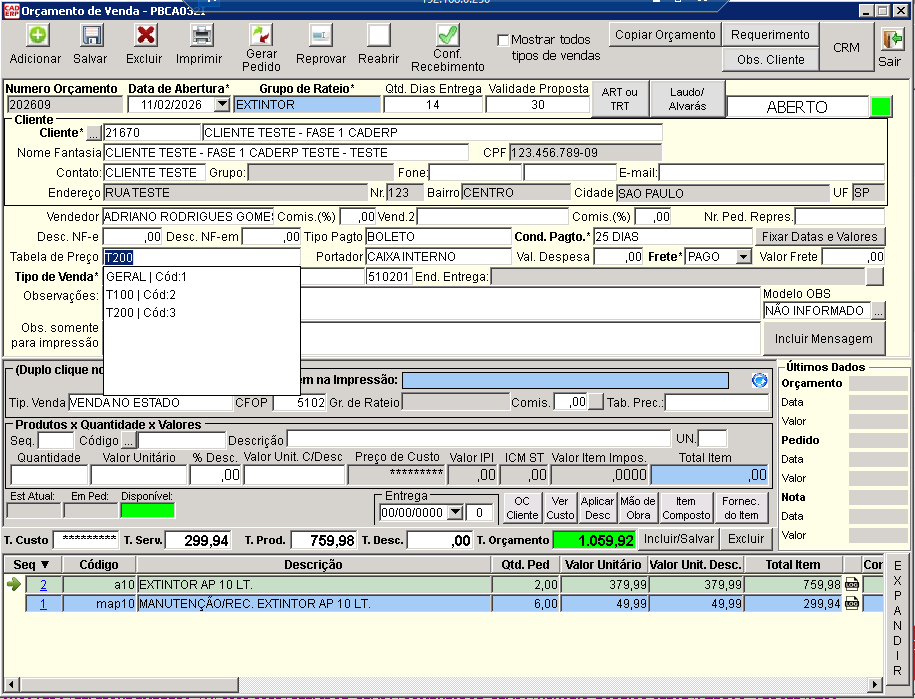
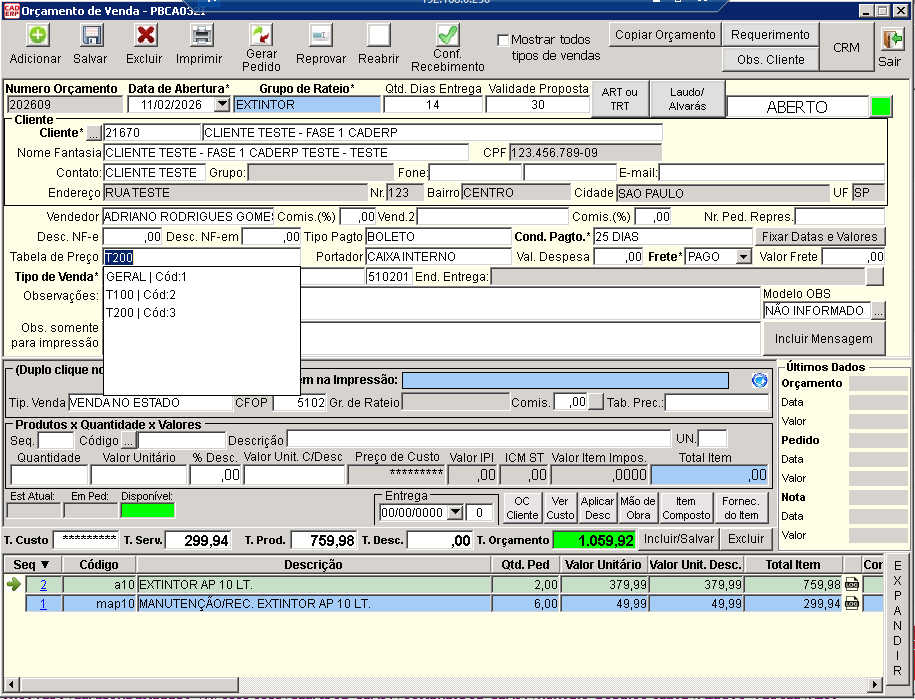
fix: update image references and improve HTML formatting in pbca-indice.html

diff --git a/modulos/documentos-tecnicos/pbca-indice.html b/modulos/documentos-tecnicos/pbca-indice.html
@@ -265,11 +265,14 @@
                             style="max-width: 800px; vertical-align: middle; margin-left: 5px;">
 
 
-                            <li>CAD Backup - A | MENU: UTILITÁRIOS > BACKUP BASE DE DADOS</li>
-                        <img src="../../../assets/img/telas-pbc/CAD Backup - A.PNG" alt="Tela do sistema CAD ERP" style="max-width: 800px; vertical-align: middle; margin-left: 5px;">
+                        <li>CAD Backup - A | MENU: UTILITÁRIOS > BACKUP BASE DE DADOS</li>
+                        <img src="../../../assets/img/telas-pbc/CAD Backup - A.PNG" alt="Tela do sistema CAD ERP"
+                            style="max-width: 800px; vertical-align: middle; margin-left: 5px;">
 
-                        <li>CADERP090 - USUÁRIOS LOGADOS NO SISTEMA | ACESSO VIA LINK "USUÁRIOS CONECTADOS" NA TELA DE LOGIN</li>
-                        <img src="../../../assets/img/telas-pbc/CADERP090.PNG" alt="Tela do sistema CAD ERP" style="max-width: 800px; vertical-align: middle; margin-left: 5px;">
+                        <li>CADERP090 - USUÁRIOS LOGADOS NO SISTEMA | ACESSO VIA LINK "USUÁRIOS CONECTADOS" NA TELA DE
+                            LOGIN</li>
+                        <img src="../../../assets/img/telas-pbc/CADERP090.PNG" alt="Tela do sistema CAD ERP"
+                            style="max-width: 800px; vertical-align: middle; margin-left: 5px;">
 
                         <li>PBCA001 - UNIDADE DE MEDIDA | MENU: CADASTROS > PRODUTOS >UNIDADE DE MEDIDA</li>
                         <img src="../../../assets/img/telas-pbc/PBCA001.PNG" alt="Tela do sistema CAD ERP"
@@ -398,7 +401,8 @@
                             (PBCA015I)</li>
                         <img src="../../../assets/img/telas-pbc/PBCA015.PNG" alt="Tela do sistema CAD ERP"
                             style="max-width: 800px; vertical-align: middle; margin-left: 5px;">
-<li>PBCA015A - ORÇAMENTO/PEDIDOS | ABERTURA AUTOMÁTICA QUANDO JÁ EXISTE UM OU MAIS ORÇAMENTOS ABERTOS PARA O CLIENTE SELECIONADO EM PBCA032I</li>
+                        <li>PBCA015A - ORÇAMENTO/PEDIDOS | ABERTURA AUTOMÁTICA QUANDO JÁ EXISTE UM OU MAIS ORÇAMENTOS
+                            ABERTOS PARA O CLIENTE SELECIONADO EM PBCA032I</li>
                         <img src="../../../assets/img/telas-pbc/PBCA015A.PNG" alt="Tela do sistema CAD ERP"
                             style="max-width: 800px; vertical-align: middle; margin-left: 5px;">
 
@@ -480,7 +484,7 @@
                         <img src="../../../assets/img/telas-pbc/PBCA032.PNG" alt="Tela do sistema CAD ERP"
                             style="max-width: 800px; vertical-align: middle; margin-left: 5px;">
 
-                            <li>PBCA032I - ORÇAMENTO DE VENDA | ACESSO VIA BOTÃO
+                        <li>PBCA032I - ORÇAMENTO DE VENDA | ACESSO VIA BOTÃO
                             " +" EM ORÇAMENTO DE VENDA (PBCA032)</li>
                         <img src="../../../assets/img/telas-pbc/PBCA032I.PNG" alt="Tela do sistema CAD ERP"
                             style="max-width: 800px; vertical-align: middle; margin-left: 5px;">
